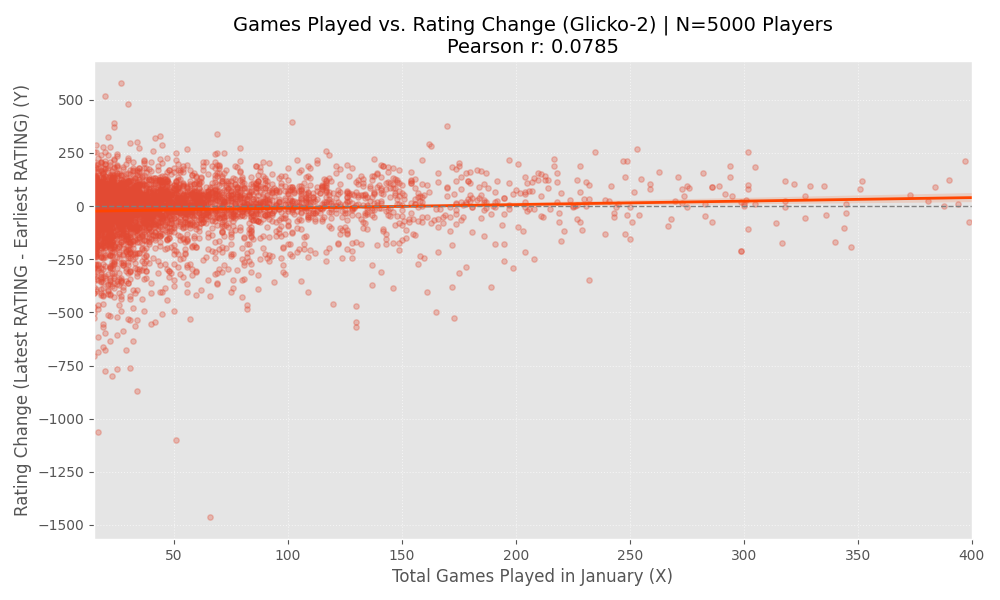
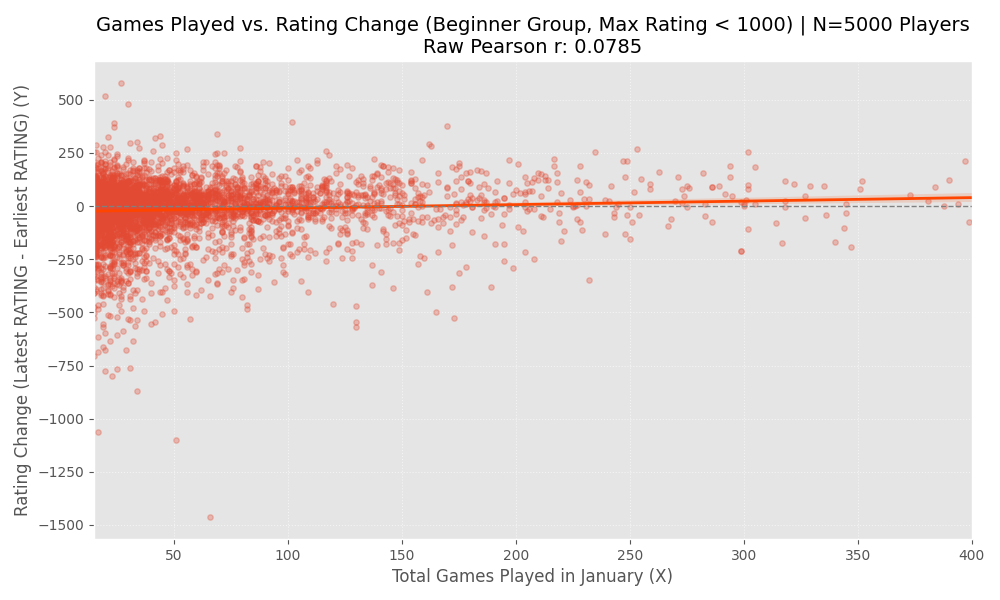
rerun results, update todo

Changed region(s): [[0.093, 0.03, 0.992, 0.09]]

diff --git a/extract_player_stats_from_monthly_lichess_dump.py b/extract_player_stats_from_monthly_lichess_dump.py
@@ -8,28 +8,26 @@ import time
 from datetime import datetime
 
 # Note from Lichess on Glicko-2 ratings: https://lichess.org/page/rating-systems
+# i am counting games that end in disconnect or abandon since they affect rating over time anyways, but i could see an argument against this
+# sometimes players end up outside the target rating range, but i don't throw them out because they started within the target range
 
 # CRITICAL
-# DONE: get monthly average glicko score in addition to min, max, and number of games played
-# DONE: get earliest and latest (beginning of the month, end of the month) glicko scores for each of the players
-# DONE: analyze initial results
-# TODO: check statisitical significance of bar chart
+# TODO: implement rating range (MIN_RATING, MAX_RATING) instead of just max_rating. set the intial MIN_RATING to 0 and MAX_RATING to 800
+# TODO: rerun with 900+10 rapid games only
+#
+# IMPORTANT
 # TODO: for each player, calculate spread of days played (latest_time - earliest_time)
 #           then update analysis to get the total average spread and spread by bin.
 #           this way we can verify that it's something reasonable, like at least 10-15. 
 #           less than that may be cocnerning because it's probably not realistic to expect
 #           improvement in a week or less, regardless of how many games were played
-#
-# IMPORTANT
-# TODO: implement rating range (MIN_RATING, MAX_RATING) instead of just max_rating/rating cap (separate results for ratings 0-1000, 1001-1600)
-# TODO: ignore games that end in a disconnect or abandon (but keep games that end in surrender)
-# TODO: throw out players that had any game outside their rating range
 #               
 # NICE TO HAVE
 # TODO: run and save full set of beginner-level players, then from that output file sample 5k players (save time moving forward)
 # TODO: save list of 5k players as a hashmap, so that it is efficient to locate them and rerun the analysis for february and beyond
 # TODO: analyze each time control separately
 # TODO: analyze classical time controls (60m games)s
+# TODO: throw out players that had any game outside their rating range
 
 # --- CONFIG ---
 ZST_FILE_PATH = '/Users/healeyj/Desktop/lichess-extracts/lichess_db_standard_rated_2024-01.pgn.zst' # Jan24 datafile
